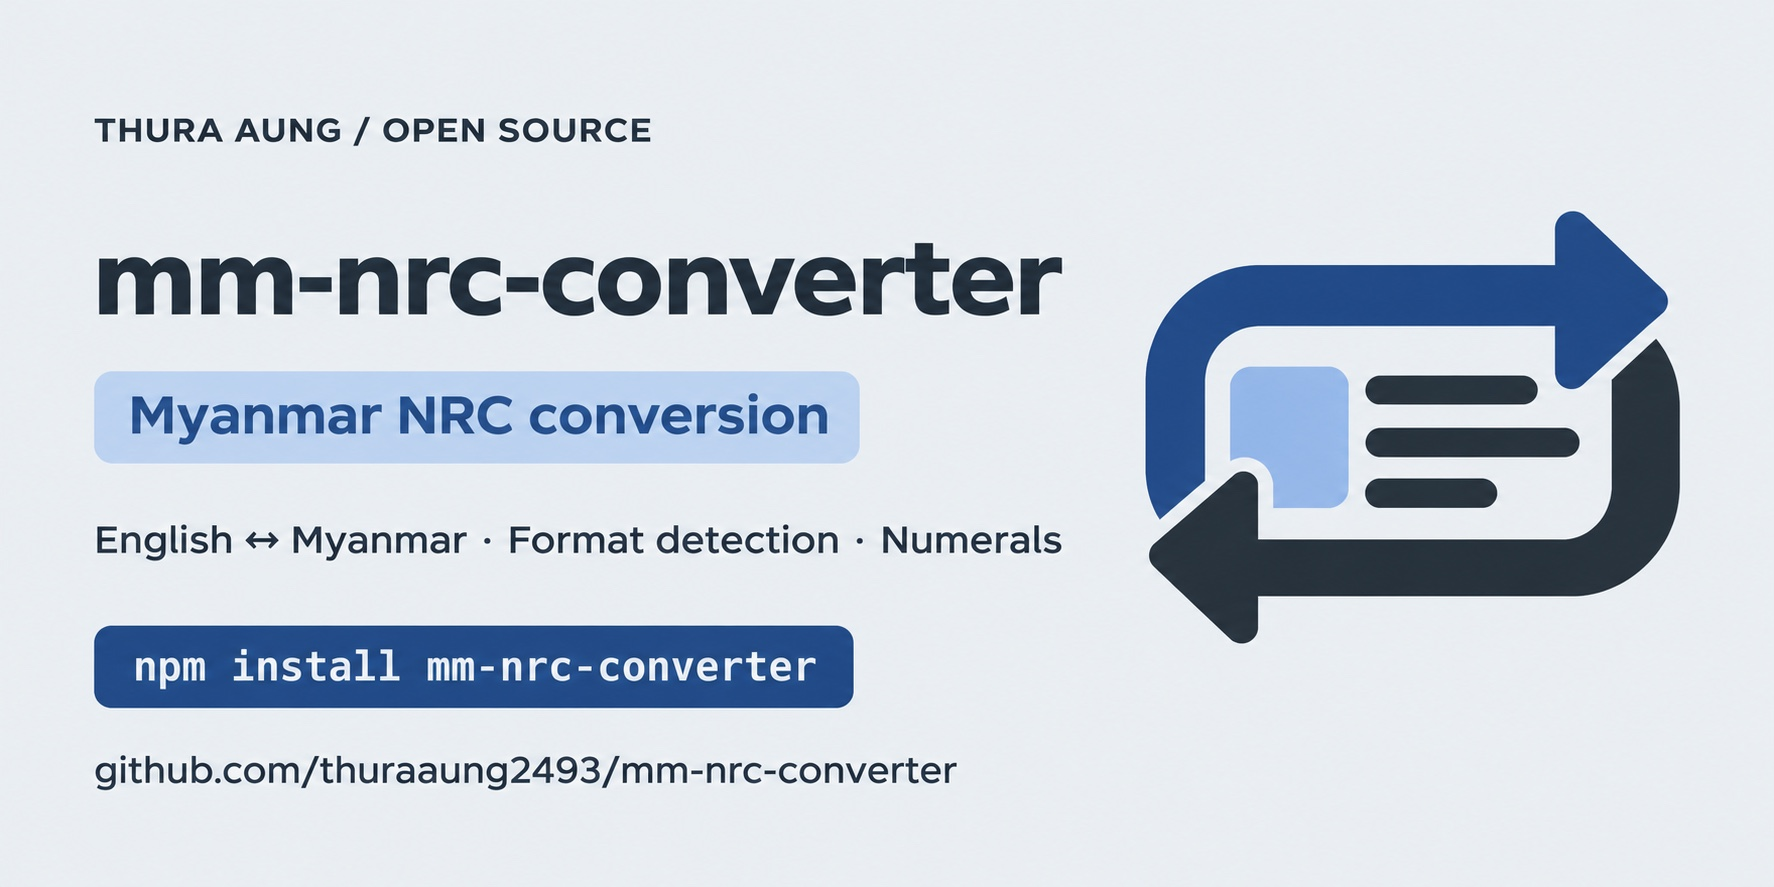
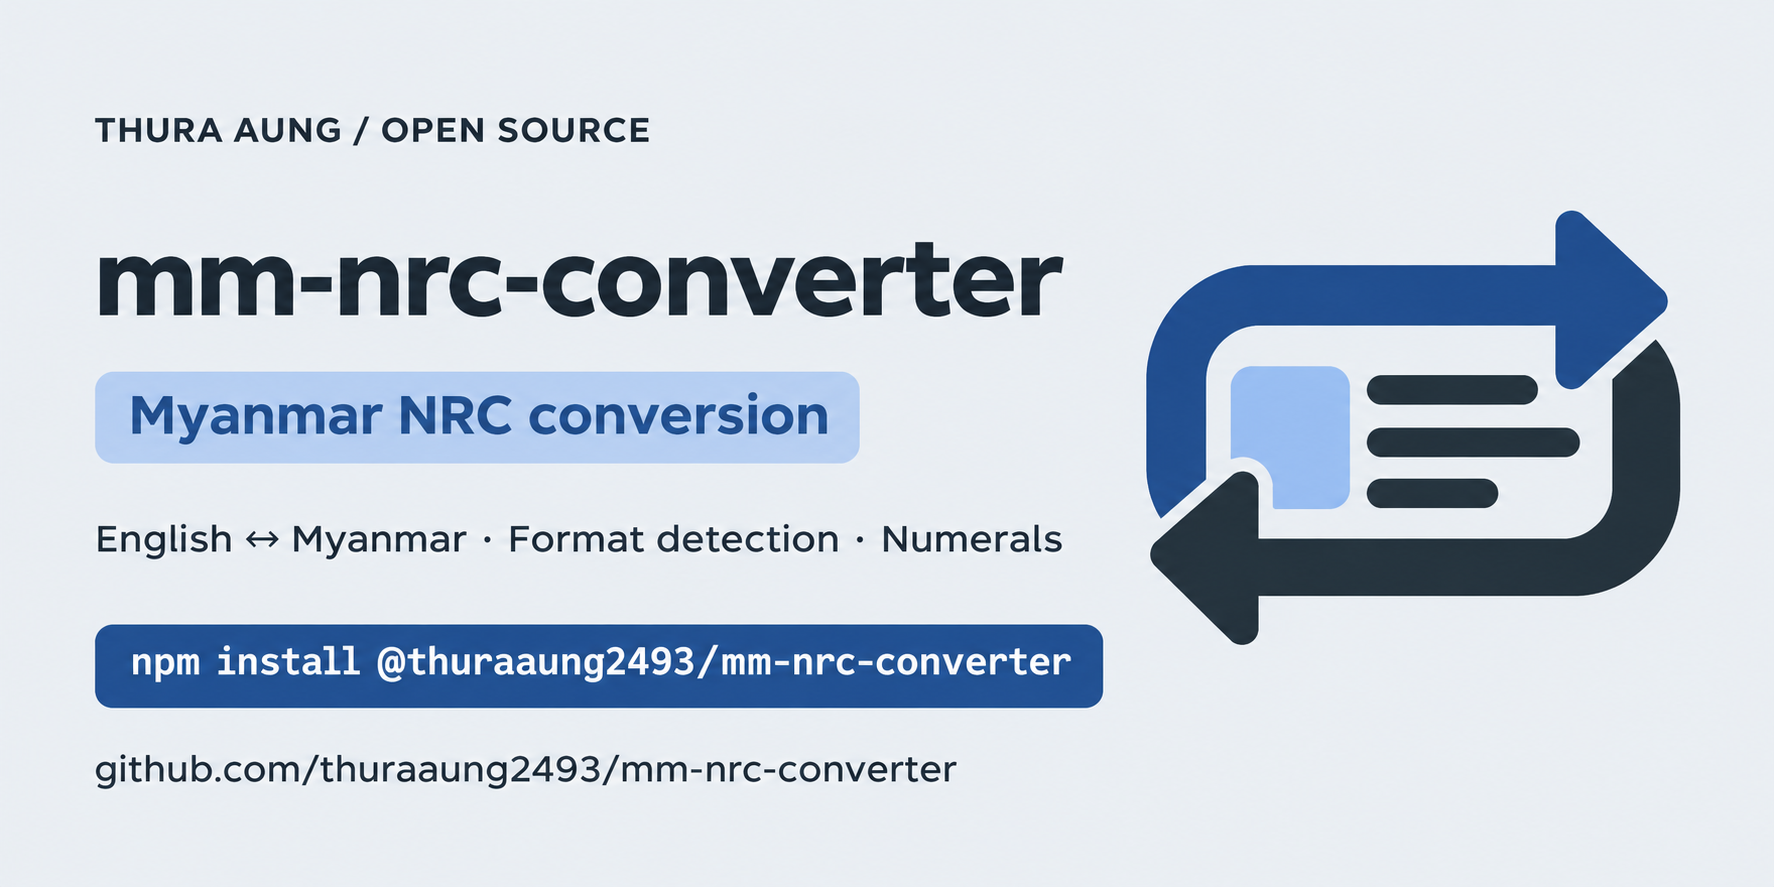
v2.0.2

diff --git a/RELEASING.md b/RELEASING.md
@@ -1,52 +1,98 @@
 # Releasing
 
-CI checks pull requests and pushes to `main` on Node 22 and 24. Publishing runs
-only when a stable GitHub release is published. It checks the release version,
-installs locked dependencies, runs all tests, previews the package, and publishes
-to npm with OIDC and provenance. Pull requests, normal pushes, and prereleases
-never publish a package.
+This project uses GitHub Actions for continuous integration and automated npm publishing.
+
+CI runs on pull requests and pushes to `main` using Node.js 22 and 24.
+
+Publishing runs only when a stable GitHub release is published. The workflow:
+
+1. Verifies the release tag matches the package version.
+2. Installs dependencies using the lockfile.
+3. Runs all tests.
+4. Previews the npm package contents.
+5. Publishes to npm using OIDC trusted publishing with provenance.
+
+Pull requests, normal pushes, draft releases, and prereleases do not publish packages.
 
 ## One-time npm configuration
 
-In the [package settings](https://www.npmjs.com/package/mm-nrc-converter/access),
-add a GitHub Actions trusted publisher with these exact values:
+In the [npm package settings](https://www.npmjs.com/package/@thuraaung2493/mm-nrc-converter/access), configure a GitHub Actions trusted publisher with the following values:
 
-| Field | Value |
-| --- | --- |
-| Organization or user | `thuraaung2493` |
-| Repository | `mm-nrc-converter` |
-| Workflow filename | `publish.yml` |
-| Environment name | Leave blank |
-| Allowed action | Enable direct publishing with `npm publish` |
+| Field                | Value                                       |
+| -------------------- | ------------------------------------------- |
+| Organization or user | `thuraaung2493`                             |
+| Repository           | `mm-nrc-converter`                          |
+| Workflow filename    | `publish.yml`                               |
+| Environment name     | Leave blank                                 |
+| Allowed action       | Enable direct publishing with `npm publish` |
 
-The workflow file must be pushed to `.github/workflows/publish.yml` in the
-repository. No `NPM_TOKEN` or `NODE_AUTH_TOKEN` secret is needed. The publishing
-job uses a GitHub-hosted runner, Node 24, npm 11, and `id-token: write`.
+The publishing workflow must exist at `.github/workflows/publish.yml`.
 
-See [npm's trusted publishing documentation](https://docs.npmjs.com/trusted-publishers/)
-for the account setup. The npm configuration must be saved before publishing the
-first release through this workflow.
+The workflow uses:
 
-## Release 2.0.0
+- GitHub-hosted Ubuntu runner
+- Node.js 24
+- npm 11
+- `id-token: write` permission
+- OIDC authentication and npm provenance
 
-1. Commit and push the package changes, both workflows, and the version changes
-   in `package.json` and `package-lock.json` to GitHub, then merge into `main`.
-2. Wait for the CI workflow to pass.
-3. Create a [GitHub release](https://github.com/thuraaung2493/mm-nrc-converter/releases/new)
-   with the tag `v2.0.0`, targeting the tested commit on `main`. Use the 2.0.0
-   changelog for release notes and publish it as a stable release.
-4. Watch the **Publish to npm** workflow and verify the new version on npm.
+No `NPM_TOKEN` or `NODE_AUTH_TOKEN` secret is required.
 
-The `v` prefix and exact version match are required. Publishing the GitHub
-release triggers npm publication; a draft release or tag push alone does not.
-An already published npm version cannot be overwritten.
+See [npm trusted publishing documentation](https://docs.npmjs.com/trusted-publishers/) for more information.
 
-## Subsequent releases
+This configuration is required only once, unless the repository or workflow settings change.
 
-Update both package version files and the changelog in a pull request. Run the
-checks, merge, then publish a stable GitHub release tagged `v<version>`. For
-example, version `2.0.1` requires the tag `v2.0.1`.
+## Publishing a release
 
-If publishing fails before the npm version appears, fix the configuration and
-rerun the failed GitHub Actions job. If the version already exists on npm,
-prepare a new version instead of trying to publish it again.
+1. Update the version in `package.json` and `package-lock.json`.
+2. Update `CHANGELOG.md` with the release changes.
+3. Commit and push the changes, then merge into `main`.
+4. Ensure the CI workflow passes.
+5. Create a [GitHub release](https://github.com/thuraaung2493/mm-nrc-converter/releases/new) with the tag `v<version>`, targeting the tested commit on `main`.
+6. Publish the release as a stable release, not a prerelease.
+7. Verify the **Publish to npm** workflow succeeds.
+8. Confirm the new version is available on [npm](https://www.npmjs.com/package/@thuraaung2493/mm-nrc-converter).
+
+For example, package version `2.1.0` requires the GitHub release tag `v2.1.0`.
+
+### Release rules
+
+- The release tag must use the `v` prefix and exactly match `package.json`.
+- `package.json` and `package-lock.json` must have matching versions.
+- Only stable semantic versions (`MAJOR.MINOR.PATCH`) are supported by the publishing workflow.
+- Publishing a stable GitHub release triggers npm publication.
+- Creating a tag alone does not trigger publication.
+- Draft releases and prereleases do not trigger publication.
+- Already published npm versions cannot be overwritten.
+
+## Troubleshooting
+
+### Publishing fails before npm publication
+
+Check the **Publish to npm** workflow logs.
+
+Verify that:
+
+- The npm trusted publisher configuration matches the GitHub repository and workflow.
+- The release tag matches the package version.
+- The package and lockfile versions match.
+- All tests pass.
+
+Fix the issue and rerun the failed GitHub Actions job.
+
+### Version already exists on npm
+
+npm does not allow overwriting an already published version.
+
+Update the package version and changelog, then create a new GitHub release using the new version.
+
+### Release does not trigger publishing
+
+Confirm that:
+
+- The GitHub release was published, not saved as a draft.
+- The release is not marked as a prerelease.
+- The publishing workflow exists at `.github/workflows/publish.yml`.
+- The workflow is enabled in the repository.
+
+A tag push alone does not trigger the publishing workflow.

diff --git a/assets/branding/PROMPTS.md b/assets/branding/PROMPTS.md
@@ -26,6 +26,6 @@ Top label: "THURA AUNG / OPEN SOURCE"
 Large main title: "mm-nrc-converter"
 Subtitle: "Myanmar NRC conversion"
 Supporting line: "English ↔ Myanmar · Format detection · Numerals"
-Command capsule: "npm install mm-nrc-converter"
+Command capsule: "npm install @thuraaung2493/mm-nrc-converter"
 Small footer: "github.com/thuraaung2493/mm-nrc-converter"
 Do not invent any other text. No badges, stars, versions or claims. No watermarks. The final image must be a single ready-to-upload banner, not a scene, mockup, collage or presentation of multiple variants.

diff --git a/CHANGELOG.md b/CHANGELOG.md
@@ -1,5 +1,21 @@
 # Changelog
 
+## 2.0.2
+
+### Documentation
+
+- Fix installation instructions and improve documentation in `README.md`.
+
+### Branding
+
+- Update project logo and GitHub social preview image.
+
+## 2.0.1
+
+### Package
+
+- Rename the npm package from `mm-nrc-converter` to `@thuraaung2493/mm-nrc-converter`.
+
 ## 2.0.0
 
 - Add `toEnglish()`, `toMyanmar()`, `convert()`, `parse()`, `isValid()`, and
